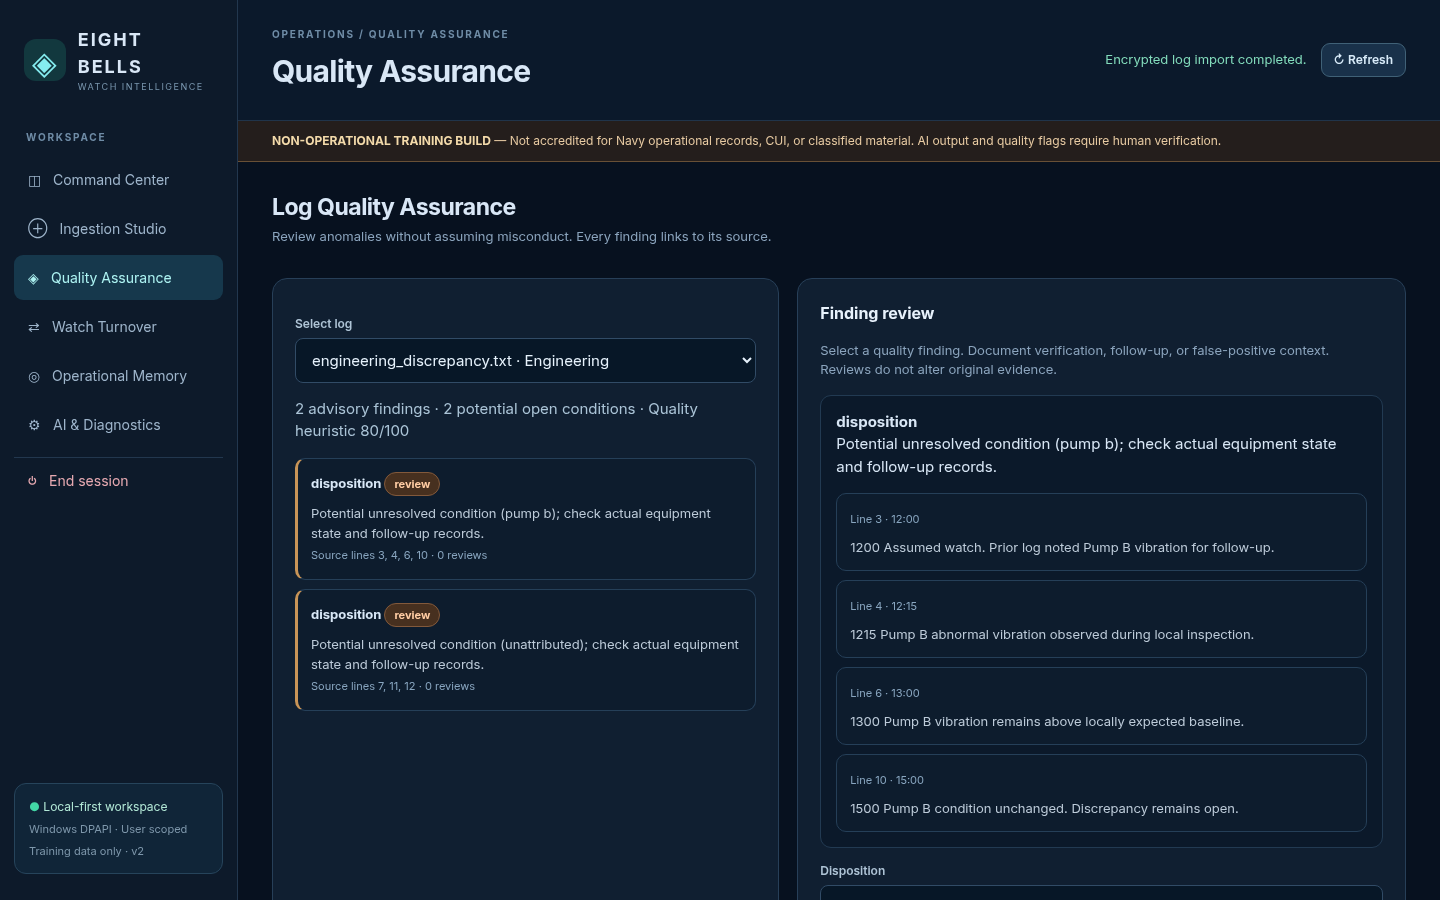
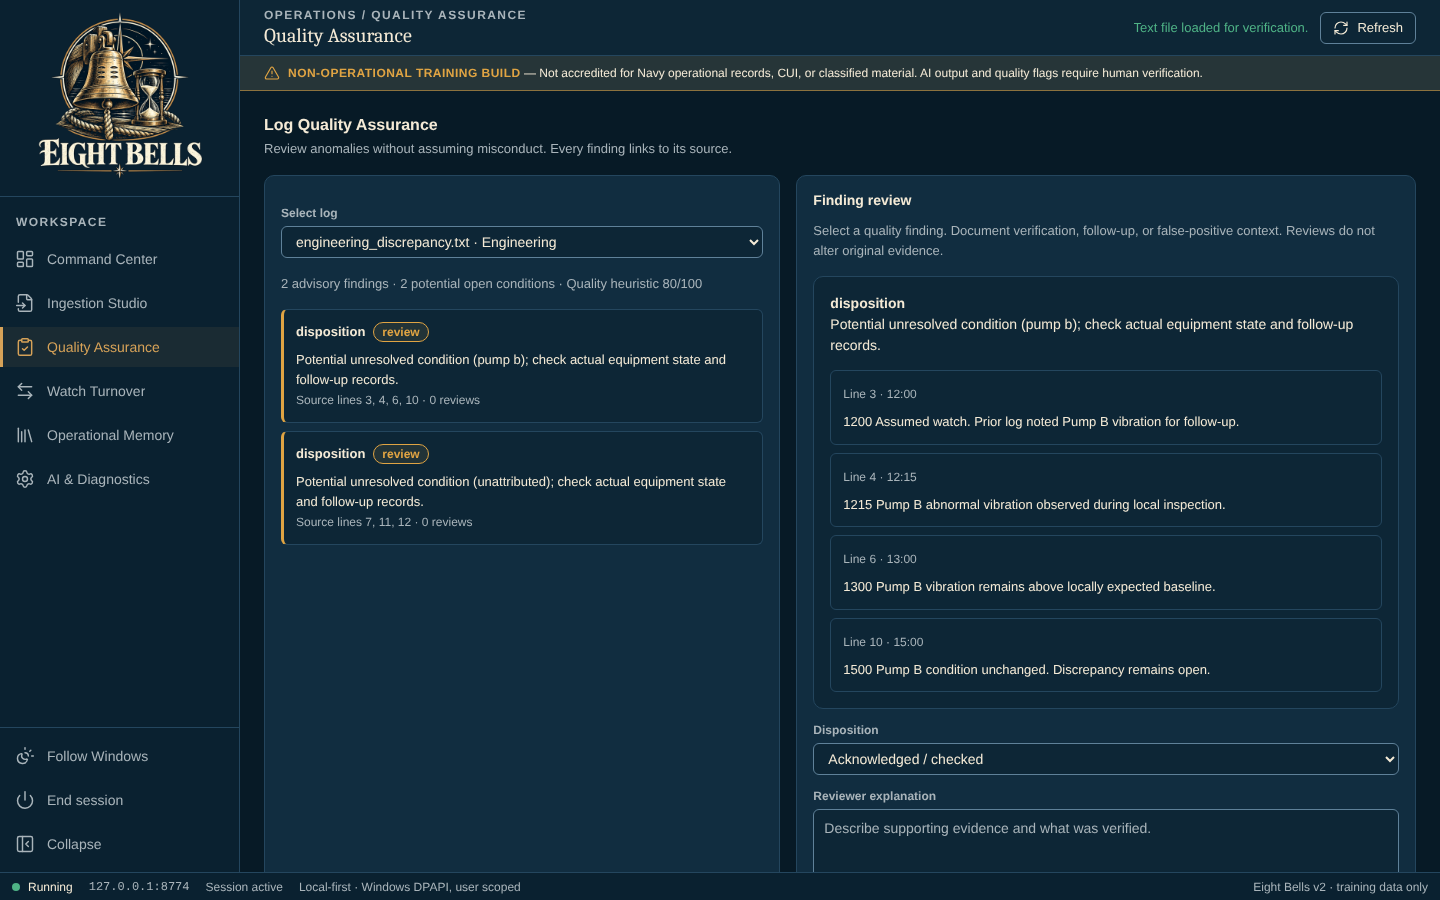
docs: retake README and walkthrough screenshots on the Fleet Unified UI
All nine app screenshots predated the finished Navy-themed shell (the
walkthrough still showed the old teal theme and diamond logo; the README
pair showed the earlier small-mark sidebar brand). Retaken from the current
web UI at 1440x900 with the synthetic samples only:

- docs/screenshots/command-center-{night-watch,chart-room}.png
- docs/assets/walkthrough/01..07 (Night watch)

Add docs/screenshots/capture-walkthrough.js to reproduce the walkthrough
against an isolated test server, and fix a race in capture-landing.js:
waiting for any text in the editor passed before the next file loaded, so
a log could be imported under the wrong name. The walkthrough text now
describes the empty-workspace welcome panel and the Night watch theme.

Claude-Session: https://claude.ai/code/session_011ed4z4RFijKn2Db3KcKVzo

diff --git a/docs/screenshots/capture-walkthrough.js b/docs/screenshots/capture-walkthrough.js
@@ -1,0 +1,91 @@
+// Captures the walkthrough screenshots (docs/assets/walkthrough/NN-<screen>.png) with Playwright Chromium (headless).
+// Mock data only: run it against an isolated test server with an EMPTY store, never a real one:
+//   $env:EIGHTBELLS_TEST_SESSION='1'; $env:EIGHTBELLS_TEST_DATA_DIR='<empty temp folder>'
+//   powershell.exe -NoProfile -File .\Start-EightBells.ps1 -NoBrowser -Stay -Port 8774 -TestSessionToken synthetic-token
+//   node docs/screenshots/capture-walkthrough.js http://127.0.0.1:8774 synthetic-token
+// It follows docs/walkthrough/README.md step by step: first launch on the empty workspace, imports three synthetic
+// fixtures from samples/, then Quality Assurance, Watch Turnover, Operational Memory (two lessons, one reviewed),
+// the Command Center and AI & Diagnostics. 1440x900, sidebar expanded, Night watch (prefers-color-scheme dark).
+'use strict';
+const path=require('node:path');
+const {chromium}=require('playwright');
+const [base,token]=process.argv.slice(2);
+if(!base||!token)throw Error('Usage: node capture-walkthrough.js <server-url> <test-session-token>');
+const root=path.resolve(__dirname,'..','..');
+const out=path.join(root,'docs','assets','walkthrough');
+const samples=['engineering_discrepancy.txt','engineering_repetition.log','engineering_chronology.txt'];
+const lessons=[
+ {title:'Pump B vibration carried across turnover',source:'engineering_discrepancy.txt',review:true,
+  body:'Lines 3–12: Pump B vibration above expected baseline from 1215; observation frequency increased at 1330; still open at 1600 turnover. Verified: incoming watch advised. Unknown: root cause and follow-up assessment.'},
+ {title:'Copy-forward readings mask real trends',source:'engineering_repetition.log',review:false,
+  body:'Loop A/B readings repeated verbatim across entries in the training log. Verified: QA flagged the repetition. Limitation: identical values may be legitimate; check source instruments.'}
+];
+(async()=>{
+ const browser=await chromium.launch({headless:true});
+ try{
+  const context=await browser.newContext({viewport:{width:1440,height:900},deviceScaleFactor:1,colorScheme:'dark'});
+  const page=await context.newPage();
+  page.on('dialog',d=>d.accept());
+  const shoot=async name=>{await page.evaluate(()=>document.activeElement&&document.activeElement.blur());await page.mouse.move(0,0);await page.waitForTimeout(300);await page.screenshot({path:path.join(out,name)});};
+  const nav=async view=>{await page.click('button.nav-btn[data-view="'+view+'"]');await page.evaluate(()=>{document.querySelector('.scroll-area').scrollTop=0;});};
+  const toBottom=()=>page.evaluate(()=>{const s=document.querySelector('.scroll-area');s.scrollTop=s.scrollHeight;});
+  const notice=text=>page.waitForFunction(t=>document.getElementById('notice').textContent.includes(t),text);
+  const logId=name=>page.evaluate(n=>{const o=[...document.querySelectorAll('#qualityLog option')].find(x=>x.textContent.startsWith(n+' '));return o&&o.value;},name);
+  await page.goto(base.replace(/\/$/,'')+'/#token='+token);
+  await notice('synchronized');
+  await page.waitForFunction(()=>document.getElementById('engineState').classList.contains('engine-running'));
+  if(await page.textContent('#metricLogs')!=='0')throw Error('The test store is not empty; start the server on an empty EIGHTBELLS_TEST_DATA_DIR.');
+  // 1. First launch: the empty workspace.
+  await shoot('01-first-launch.png');
+  // 2. Import logs, then load one more file to show its extraction preview next to the source library.
+  for(const file of samples){
+   await nav('ingest');
+   // Clear the previous file's text first: waiting for any text would otherwise pass before the new file loads.
+   await page.fill('#logText','');
+   await page.setInputFiles('#importFile',path.join(root,'samples',file));
+   await page.waitForFunction(()=>document.getElementById('logText').value.length>0);
+   await page.selectOption('#watchType','Engineering');
+   await page.click('#analyzeBtn');
+   await notice('import completed');
+  }
+  await nav('ingest');
+  await page.fill('#logText','');
+  await page.setInputFiles('#importFile',[]);
+  await page.setInputFiles('#importFile',path.join(root,'samples',samples[2]));
+  await page.waitForFunction(()=>document.getElementById('logText').value.length>0);
+  await toBottom();
+  await shoot('02-ingest.png');
+  // 3. Quality: the discrepancy log and its first finding.
+  const disc=await logId(samples[0]);
+  await nav('quality');
+  await page.selectOption('#qualityLog',disc);
+  await page.click('#qualityFindings [data-finding]');
+  await shoot('03-quality.png');
+  // 4. Turnover draft for the same log.
+  await nav('turnover');
+  await page.selectOption('#turnLog',disc);
+  await page.click('#generateTurn');
+  await notice('Turnover draft generated');
+  await shoot('04-turnover.png');
+  // 5. Memory: two lessons from the samples, the first one marked reviewed.
+  await nav('memory');
+  for(const l of lessons){
+   await page.fill('#lessonTitle',l.title);
+   await page.selectOption('#lessonSource',await logId(l.source));
+   await page.fill('#lessonBody',l.body);
+   await page.click('#lessonSave');
+   await notice('Memory draft encrypted');
+   if(l.review){await page.click('#lessonList [data-review-lesson]');await notice('Lesson marked reviewed');}
+  }
+  await toBottom();
+  await shoot('05-memory.png');
+  // 6. Command Center with the imported logs.
+  await nav('overview');
+  await shoot('06-command-center.png');
+  // 7. AI & Diagnostics with AI off.
+  await nav('settings');
+  await page.waitForFunction(()=>document.getElementById('diagOutput').textContent.startsWith('STORAGE'));
+  await shoot('07-settings.png');
+  await context.close();
+ }finally{await browser.close();}
+})().catch(err=>{console.error(err);process.exit(1)});

diff --git a/docs/screenshots/capture-landing.js b/docs/screenshots/capture-landing.js
@@ -35,6 +35,8 @@ async function fresh(browser,colorScheme){
   if(await page.textContent('#metricLogs')==='0'){
    for(const [file,watch] of samples){
     await page.click('button.nav-btn[data-view="ingest"]');
+    // Clear the previous file's text first: waiting for any text would otherwise pass before the new file loads.
+    await page.fill('#logText','');
     await page.setInputFiles('#importFile',path.join(root,'samples',file));
     await page.waitForFunction(()=>document.getElementById('logText').value.length>0);
     await page.selectOption('#watchType',watch);

diff --git a/docs/walkthrough/README.md b/docs/walkthrough/README.md
@@ -15,11 +15,11 @@ Import watch logs, review their quality, and build an evidence-linked turnover f
 
 ### 1. First launch
 
-Eight Bells opens on the **Command Center**, empty until you import logs.
+Eight Bells opens on the **Command Center**. Until you import logs it shows a welcome panel with one action, **Import your first log**.
 
 *The NON-OPERATIONAL TRAINING BUILD banner at the top of most pages is the app's built-in training-build disclaimer. It is part of the app, not a marking on the data.*
 
-![Eight Bells Command Center on first launch with no logs imported, all counts at 0, and the built-in training-build disclaimer banner.](../assets/walkthrough/01-first-launch.png)
+![Eight Bells Command Center on first launch: the welcome panel with the Eight Bells emblem and Import your first log, all counts at 0, and the built-in training-build disclaimer banner.](../assets/walkthrough/01-first-launch.png)
 
 ### 2. Import logs
 
@@ -59,4 +59,4 @@ The **Command Center** now summarizes the watch.
 
 ## About these images
 
-Images live in [`docs/assets/walkthrough/`](../assets/walkthrough/), named `NN-<screen>.png` after the step they belong to. They are 1440x900 at 100% scale in the Dark (Eight Bells has one theme) theme, and show demo data only.
+Images live in [`docs/assets/walkthrough/`](../assets/walkthrough/), named `NN-<screen>.png` after the step they belong to. They are 1440x900 at 100% scale in the Night watch (dark) theme, and show demo data only. Retake them with [`docs/screenshots/capture-walkthrough.js`](../screenshots/capture-walkthrough.js) against an isolated test server with an empty store (usage at the top of the script).
